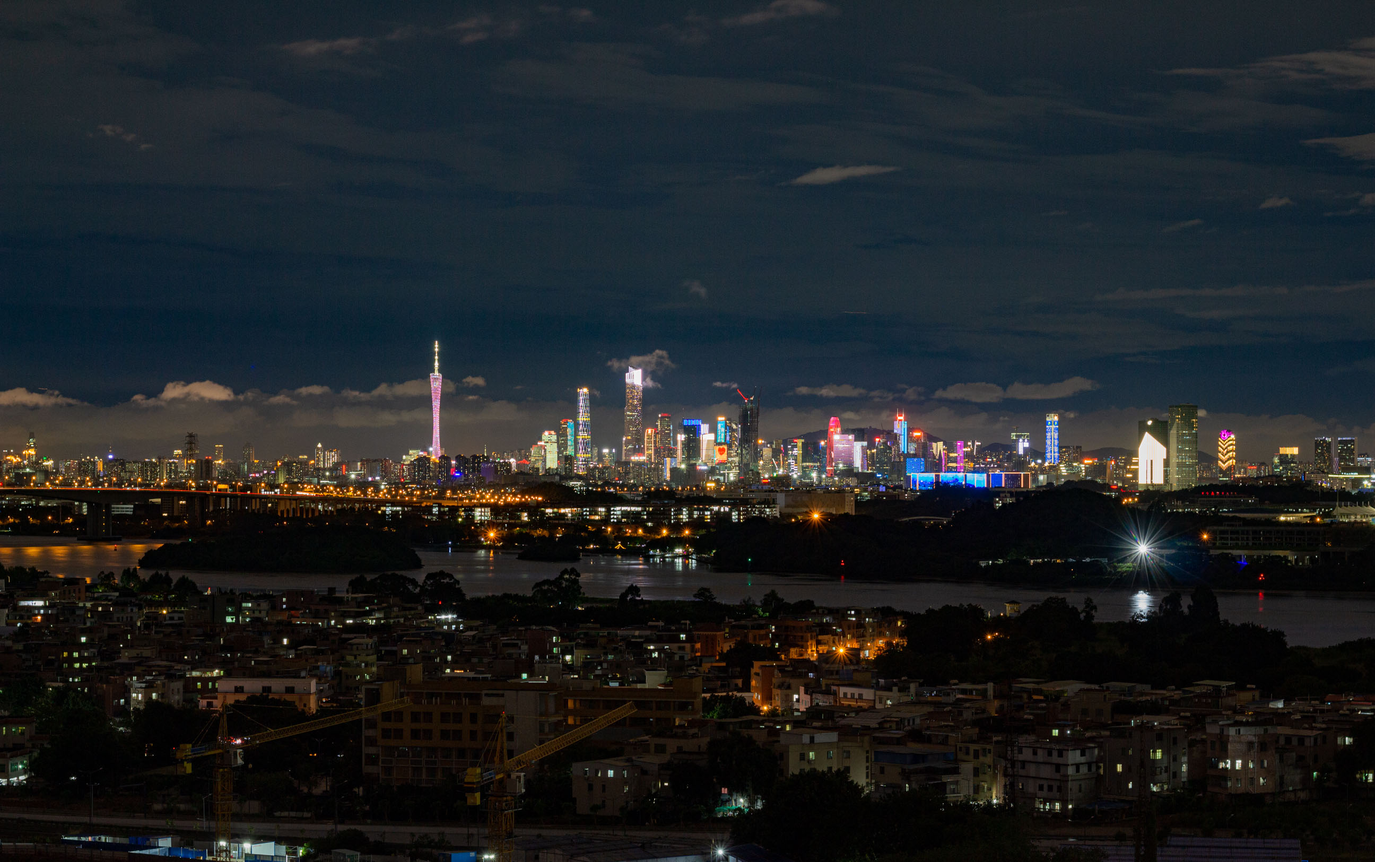
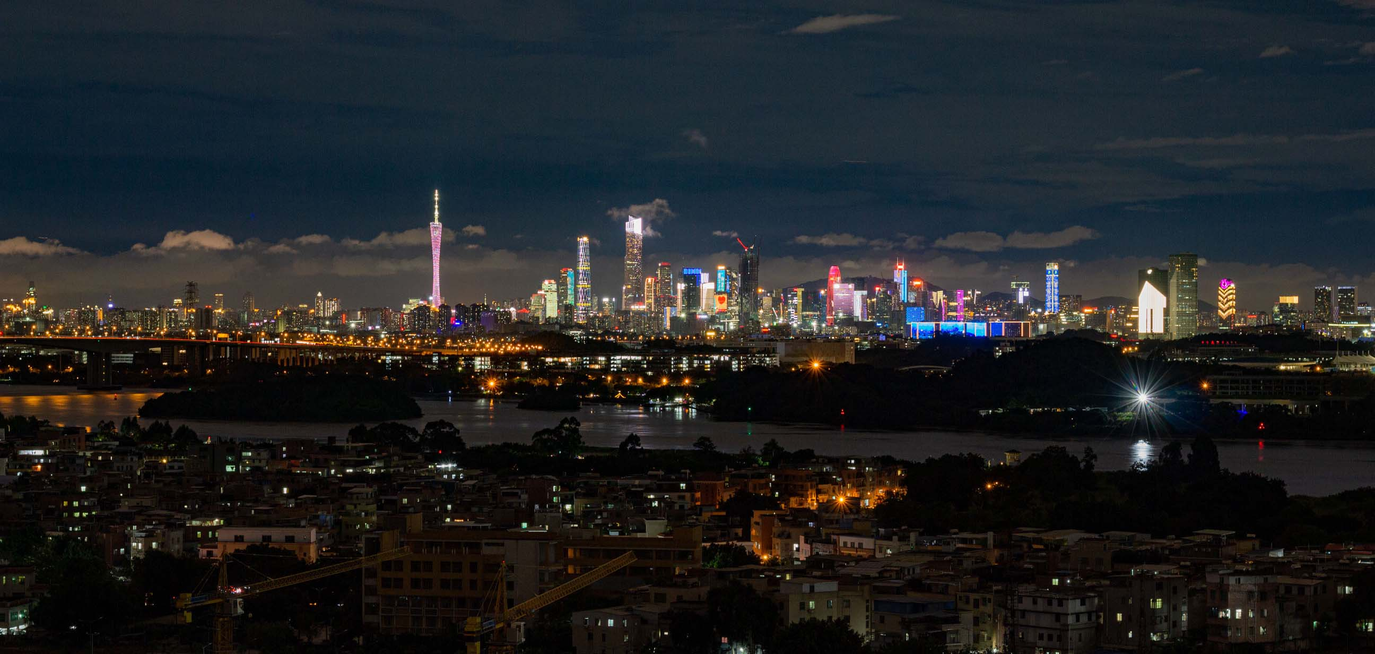
cover

diff --git a/_posts/2023-06-21-Sequential-Data.md b/_posts/2023-06-21-Sequential-Data.md
@@ -8,11 +8,10 @@ article_header:
   background_color: '#203028'
   background_image:
     gradient: 'linear-gradient(135deg, rgba(34, 139, 87 , .4), rgba(139, 34, 139, .4))'
-    src: https://www.nasachina.cn/wp-content/uploads/2022/09/CarinaCliffs_Webb_2000.jpg
+    src:  /pictures/cover/IMG_1195.jpg
 ---
 
 
-<!-- ![](https://drive.google.com/uc?export=view&id=1_NR85DqE2QSpe2_9sBemMXGE1dVDKWGj) -->
 
 对于许多应用来说，数据集里的数据点独立同分布的假设不成立。顺序数据的数据集通常产⽣于沿着时间序列进⾏的测量，例如某个特定位置的连续若⼲天的降⽔量测量，或者每天汇率的值，或者对于语⾳识别任务，在连续的时间框架下的声学特征。
 

diff --git a/_posts/2023-06-20-Distribution.md b/_posts/2023-06-20-Distribution.md
@@ -2,13 +2,13 @@
 layout: article
 title: 机器学习中的常见概率分布
 mathjax: true
-mode: immersive
-header:
-  theme: dark
 article_header:
-  type: cover
-  image:
-    src: https://www.nasachina.cn/wp-content/uploads/2019/10/MilkyWaySaltFlat_Huerta_2048.jpg
+  type: overlay
+  theme: dark
+  background_color: '#203028'
+  background_image:
+    gradient: 'linear-gradient(135deg, rgba(34, 139, 87 , .4), rgba(139, 34, 139, .4))'
+    src: /pictures/cover/IMG_1094.jpg
 ---
 
 ## 各种概率分布之间的关系

diff --git a/_posts/2023-06-14-EM-Algorithm.md b/_posts/2023-06-14-EM-Algorithm.md
@@ -2,13 +2,13 @@
 layout: article
 title: EM算法
 mathjax: true
-mode: immersive
-header:
-  theme: dark
 article_header:
-  type: cover
-  image:
-    src: https://www.nasachina.cn/wp-content/uploads/2023/01/C2022E3ZTF_2023_01_23_054036PST_DEBartlett.jpg
+  type: overlay
+  theme: dark
+  background_color: '#203028'
+  background_image:
+    gradient: 'linear-gradient(135deg, rgba(34, 139, 87 , .4), rgba(139, 34, 139, .4))'
+    src: /pictures/cover/IMG_1095.jpg
 ---
 
 

diff --git a/_posts/2023-06-08-Probability-Graph-Theory.md b/_posts/2023-06-08-Probability-Graph-Theory.md
@@ -1,10 +1,16 @@
 ---
 layout: article
-title: 概率图理论
+title: 概率图
 mathjax: true
+article_header:
+  type: overlay
+  theme: dark
+  background_color: '#203028'
+  background_image:
+    gradient: 'linear-gradient(135deg, rgba(34, 139, 87 , .4), rgba(139, 34, 139, .4))'
+    src: /pictures/cover/CarinaNebula.jpg
 ---
 
-![](https://drive.google.com/uc?export=view&id=1zZJDtkVocwfFS4AgtP5cMDehHJuwGyJt) 
 
 
 <!-- # 概率图模型 PGM -->
